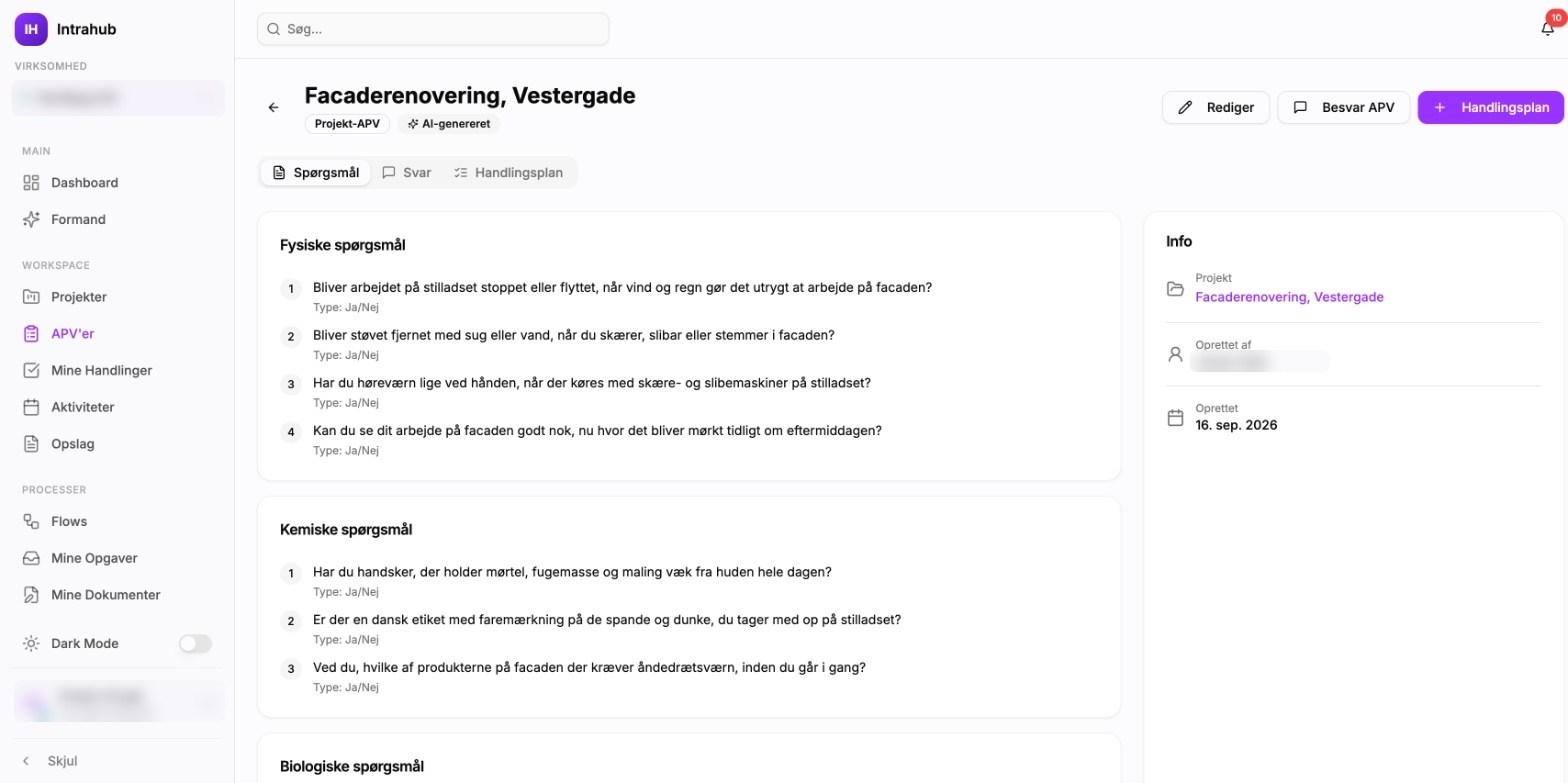
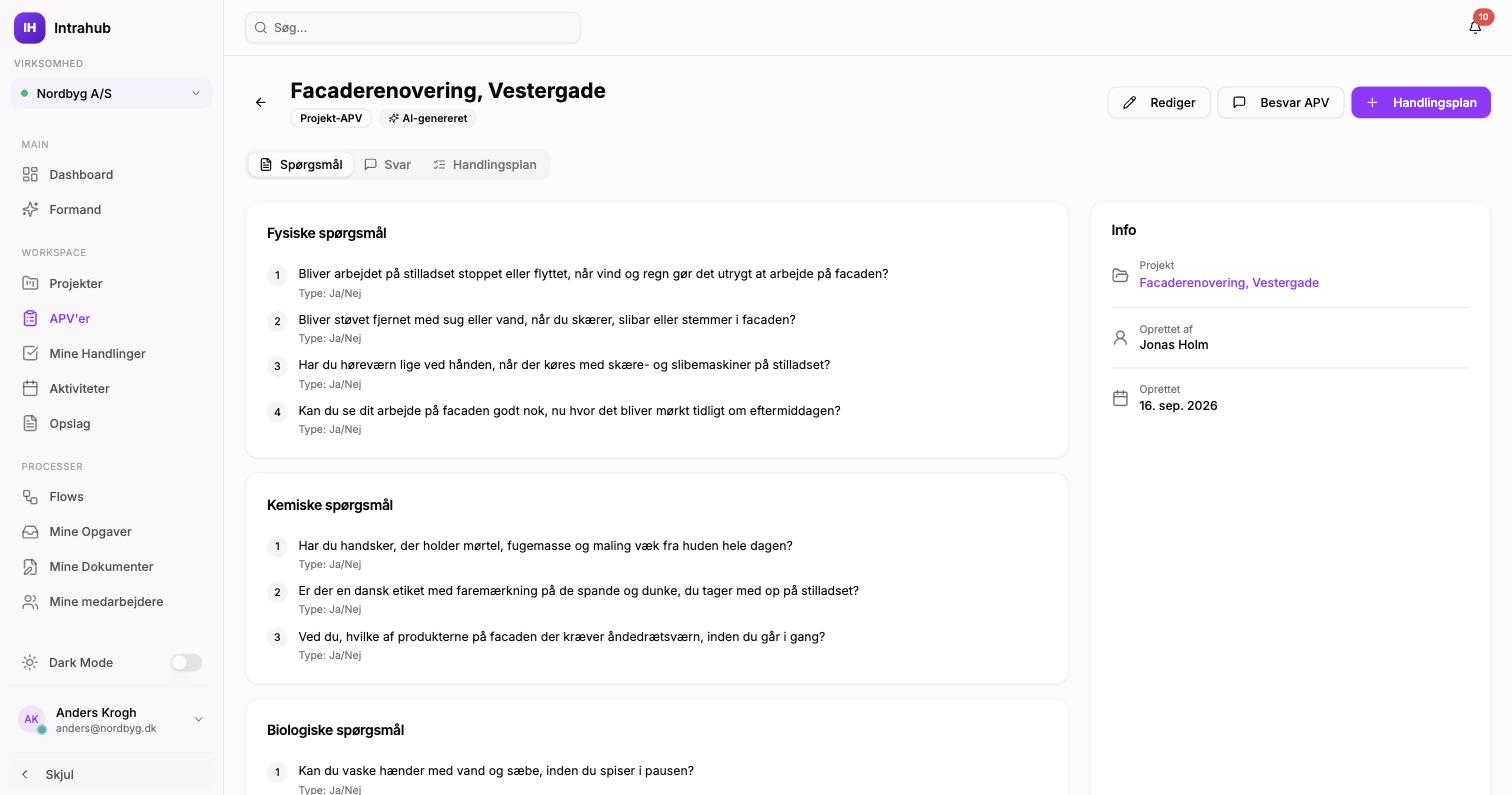
fix(intrahub): dummy names instead of blur in the APV screenshots
Recaptured the APV list, the AI-generated APV and the action plan with
names, emails, company and addresses swapped for demo values in the
browser, and dropped the blur on top. No real names in the page text
(checked before each capture).

Claude-Session: https://claude.ai/code/session_017giK7fe4hPgbyP4Q75pijY

diff --git a/intrahub.html b/intrahub.html
@@ -175,7 +175,7 @@
 				</figure>
 				<figure class="cs-shot wide">
 					<button type="button" aria-label="Forstør: Handlingsplan"><img src="assets/images/cases/intrahub-web-handlingsplan.jpg" alt="Handlingsplan med ansvarlig, deadline og opfølgning" loading="lazy"></button>
-					<figcaption><b>Handlingsplan</b>Problemet, handlingen, en ansvarlig, en deadline og en, der følger op. Navne er sløret.</figcaption>
+					<figcaption><b>Handlingsplan</b>Problemet, handlingen, en ansvarlig, en deadline og en, der følger op. Navnene er demo-navne.</figcaption>
 				</figure>
 			</div>
 		</section>
